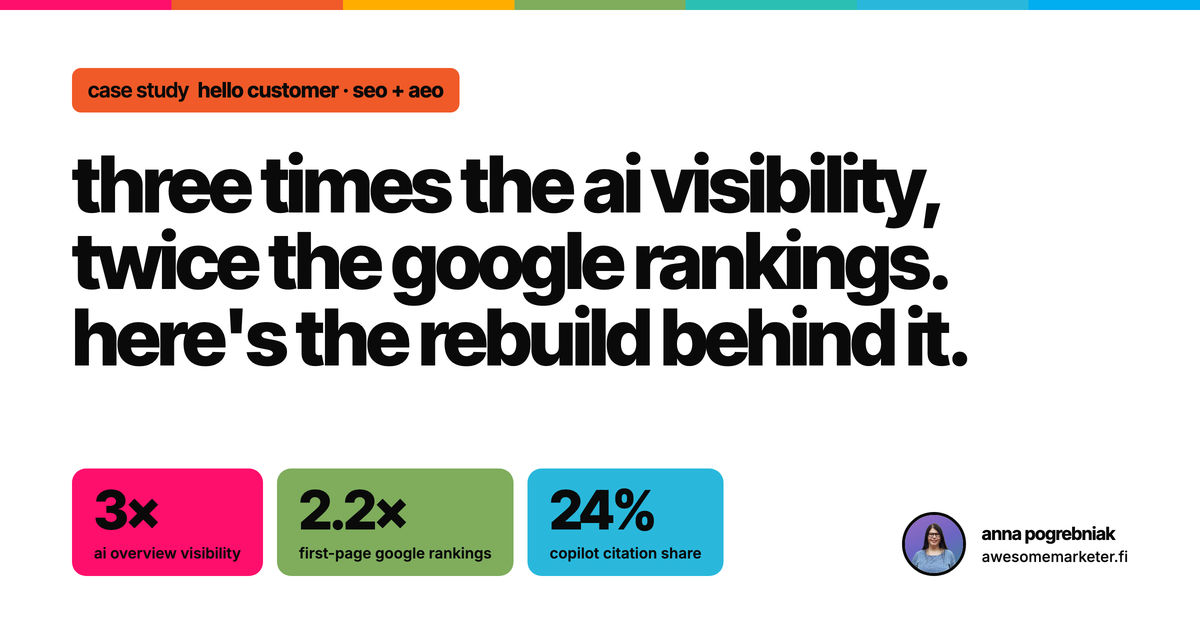
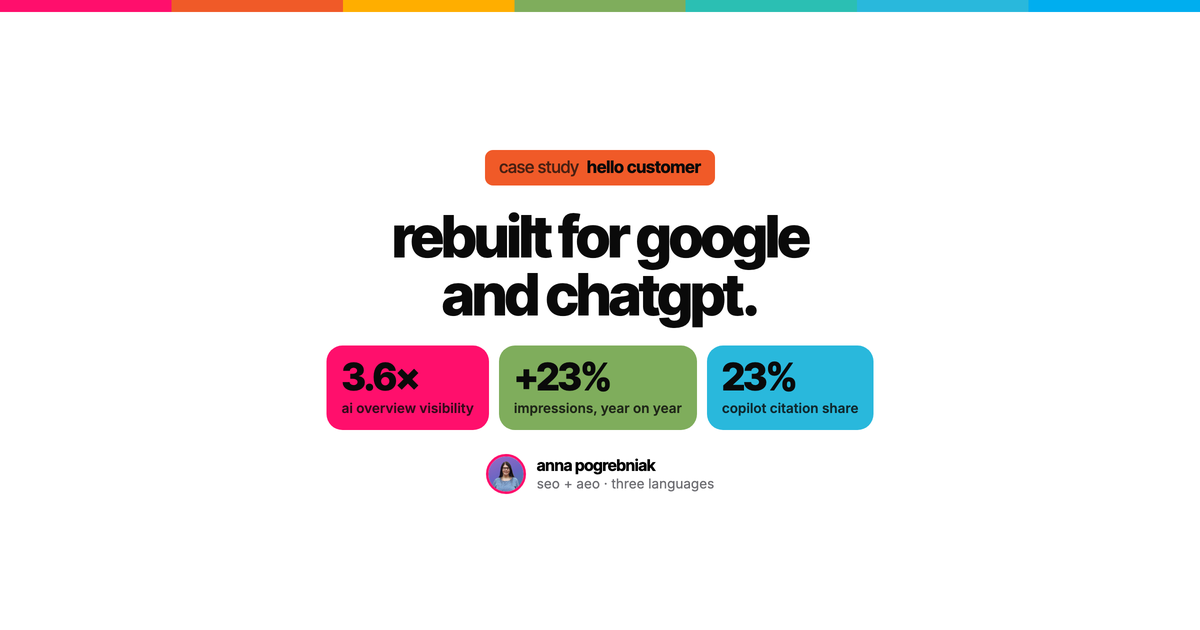
Square-safe share covers: content inside the centre crop Slack uses

diff --git a/case-studies/hello-customer/index.html b/case-studies/hello-customer/index.html
@@ -14,8 +14,8 @@
 <meta property="og:title" content="hello customer: a b2b saas website rebuilt seo and aeo first">
 <meta property="og:description" content="Repositioned as a voice of customer platform, rebuilt in three languages. 3.6x more AI Overview visibility, Google position from page 4 to page 2, 23% citation share in Bing Copilot.">
 <meta property="og:site_name" content="anna pogrebniak">
-<meta property="og:image" content="https://awesomemarketer.fi/case-studies/hello-customer/og.png">
-<meta property="og:image:secure_url" content="https://awesomemarketer.fi/case-studies/hello-customer/og.png">
+<meta property="og:image" content="https://awesomemarketer.fi/case-studies/hello-customer/og.png?v=2">
+<meta property="og:image:secure_url" content="https://awesomemarketer.fi/case-studies/hello-customer/og.png?v=2">
 <meta property="og:image:type" content="image/png">
 <meta property="og:image:width" content="1200">
 <meta property="og:image:height" content="630">
@@ -24,7 +24,7 @@
 <meta name="twitter:card" content="summary_large_image">
 <meta name="twitter:title" content="hello customer: seo + aeo case study · anna pogrebniak">
 <meta name="twitter:image:alt" content="hello customer: a b2b saas website rebuilt seo and aeo first">
-<meta name="twitter:image" content="https://awesomemarketer.fi/case-studies/hello-customer/og.png">
+<meta name="twitter:image" content="https://awesomemarketer.fi/case-studies/hello-customer/og.png?v=2">
 <meta name="robots" content="index, follow">
 <link rel="icon" href="/favicon.ico?v=2" sizes="any">
 <link rel="icon" type="image/png" sizes="32x32" href="/favicon-32x32.png?v=2">

diff --git a/index.html b/index.html
@@ -16,8 +16,8 @@
 <meta property="og:description" content="Fractional growth marketer for B2B SaaS. 11 years, 23 brands, €3M in ad spend managed. Growth, ads, and AEO.">
 <meta property="og:site_name" content="anna pogrebniak">
 <meta property="og:locale" content="en_US">
-<meta property="og:image" content="https://awesomemarketer.fi/thumbnail-portfolio.png">
-<meta property="og:image:secure_url" content="https://awesomemarketer.fi/thumbnail-portfolio.png">
+<meta property="og:image" content="https://awesomemarketer.fi/thumbnail-portfolio.png?v=2">
+<meta property="og:image:secure_url" content="https://awesomemarketer.fi/thumbnail-portfolio.png?v=2">
 <meta property="og:image:type" content="image/png">
 <meta property="og:image:width" content="1200">
 <meta property="og:image:height" content="630">
@@ -26,7 +26,7 @@
 <meta name="twitter:title" content="anna pogrebniak · fractional growth marketer · b2b saas">
 <meta name="twitter:description" content="Fractional growth marketer for B2B SaaS. 11 years, 23 brands, €3M in ad spend managed.">
 <meta name="twitter:image:alt" content="anna pogrebniak, fractional growth marketer for B2B SaaS">
-<meta name="twitter:image" content="https://awesomemarketer.fi/thumbnail-portfolio.png">
+<meta name="twitter:image" content="https://awesomemarketer.fi/thumbnail-portfolio.png?v=2">
 <meta name="robots" content="index, follow">
 <meta name="keywords" content="fractional growth marketer, b2b saas marketing, fractional cmo, aeo, answer engine optimisation, ai search visibility, paid ads, linkedin ads, google ads, meta ads, demand generation, belgium, ghent, europe">
 

diff --git a/case-studies/trustmary/index.html b/case-studies/trustmary/index.html
@@ -14,8 +14,8 @@
 <meta property="og:title" content="trustmary: launching a new product in finland with fractional ads">
 <meta property="og:description" content="Three paid paths to one sales meeting, tested against each other for a summer. 112 meetings at about 150 euro each, and the logic behind the budget.">
 <meta property="og:site_name" content="anna pogrebniak">
-<meta property="og:image" content="https://awesomemarketer.fi/case-studies/trustmary/og.png">
-<meta property="og:image:secure_url" content="https://awesomemarketer.fi/case-studies/trustmary/og.png">
+<meta property="og:image" content="https://awesomemarketer.fi/case-studies/trustmary/og.png?v=2">
+<meta property="og:image:secure_url" content="https://awesomemarketer.fi/case-studies/trustmary/og.png?v=2">
 <meta property="og:image:type" content="image/png">
 <meta property="og:image:width" content="1200">
 <meta property="og:image:height" content="630">
@@ -24,7 +24,7 @@
 <meta name="twitter:card" content="summary_large_image">
 <meta name="twitter:title" content="trustmary: fractional ads case study · anna pogrebniak">
 <meta name="twitter:image:alt" content="trustmary: launching a new product in finland with fractional ads">
-<meta name="twitter:image" content="https://awesomemarketer.fi/case-studies/trustmary/og.png">
+<meta name="twitter:image" content="https://awesomemarketer.fi/case-studies/trustmary/og.png?v=2">
 <meta name="robots" content="index, follow">
 <link rel="icon" href="/favicon.ico?v=2" sizes="any">
 <link rel="icon" type="image/png" sizes="32x32" href="/favicon-32x32.png?v=2">

diff --git a/case-studies/index.html b/case-studies/index.html
@@ -14,8 +14,8 @@
 <meta property="og:title" content="case studies · anna pogrebniak">
 <meta property="og:description" content="Two case studies with the data behind them: SEO and AEO for a B2B SaaS website, and fractional ads for a product launch in Finland.">
 <meta property="og:site_name" content="anna pogrebniak">
-<meta property="og:image" content="https://awesomemarketer.fi/thumbnail-portfolio.png">
-<meta property="og:image:secure_url" content="https://awesomemarketer.fi/thumbnail-portfolio.png">
+<meta property="og:image" content="https://awesomemarketer.fi/thumbnail-portfolio.png?v=2">
+<meta property="og:image:secure_url" content="https://awesomemarketer.fi/thumbnail-portfolio.png?v=2">
 <meta property="og:image:type" content="image/png">
 <meta property="og:image:width" content="1200">
 <meta property="og:image:height" content="630">
@@ -23,7 +23,7 @@
 <meta name="twitter:title" content="case studies · anna pogrebniak">
 <meta name="twitter:description" content="Two case studies with the data behind them: SEO and AEO for a B2B SaaS website, and fractional ads for a product launch in Finland.">
 <meta name="twitter:image:alt" content="case studies by anna pogrebniak">
-<meta name="twitter:image" content="https://awesomemarketer.fi/thumbnail-portfolio.png">
+<meta name="twitter:image" content="https://awesomemarketer.fi/thumbnail-portfolio.png?v=2">
 <meta name="twitter:card" content="summary_large_image">
 <meta name="robots" content="index, follow">
 <link rel="icon" href="/favicon.ico?v=2" sizes="any">

diff --git a/about/index.html b/about/index.html
@@ -14,8 +14,8 @@
 <meta property="og:title" content="about anna pogrebniak · fractional growth marketer">
 <meta property="og:description" content="Who Anna Pogrebniak is, how she works, and what she values. Fractional growth marketer for B2B SaaS, based in Ghent, Belgium.">
 <meta property="og:site_name" content="anna pogrebniak">
-<meta property="og:image" content="https://awesomemarketer.fi/thumbnail-portfolio.png">
-<meta property="og:image:secure_url" content="https://awesomemarketer.fi/thumbnail-portfolio.png">
+<meta property="og:image" content="https://awesomemarketer.fi/thumbnail-portfolio.png?v=2">
+<meta property="og:image:secure_url" content="https://awesomemarketer.fi/thumbnail-portfolio.png?v=2">
 <meta property="og:image:type" content="image/png">
 <meta property="og:image:width" content="1200">
 <meta property="og:image:height" content="630">
@@ -24,7 +24,7 @@
 <meta name="twitter:card" content="summary_large_image">
 <meta name="twitter:title" content="about anna pogrebniak · fractional growth marketer">
 <meta name="twitter:image:alt" content="about anna pogrebniak, fractional growth marketer">
-<meta name="twitter:image" content="https://awesomemarketer.fi/thumbnail-portfolio.png">
+<meta name="twitter:image" content="https://awesomemarketer.fi/thumbnail-portfolio.png?v=2">
 <meta name="robots" content="index, follow">
 <link rel="icon" href="/favicon.ico?v=2" sizes="any">
 <link rel="icon" type="image/png" sizes="32x32" href="/favicon-32x32.png?v=2">

diff --git a/for/pitchme/index.html b/for/pitchme/index.html
@@ -15,10 +15,10 @@
 <meta name="twitter:title" content="linkedin thought leadership plan for pitchme · anna pogrebniak">
 <meta name="twitter:description" content="Your people, in front of the right recruitment firms, every week. Awareness, then product awareness, then pipeline your sales team can work.">
 <meta name="twitter:image:alt" content="linkedin thought leadership plan for pitchme">
-<meta name="twitter:image" content="https://awesomemarketer.fi/thumbnail-portfolio.png">
+<meta name="twitter:image" content="https://awesomemarketer.fi/thumbnail-portfolio.png?v=2">
 <meta name="twitter:card" content="summary_large_image">
-<meta property="og:image" content="https://awesomemarketer.fi/thumbnail-portfolio.png">
-<meta property="og:image:secure_url" content="https://awesomemarketer.fi/thumbnail-portfolio.png">
+<meta property="og:image" content="https://awesomemarketer.fi/thumbnail-portfolio.png?v=2">
+<meta property="og:image:secure_url" content="https://awesomemarketer.fi/thumbnail-portfolio.png?v=2">
 <meta property="og:image:type" content="image/png">
 <meta property="og:image:width" content="1200">
 <meta property="og:image:height" content="630">

diff --git a/for/teamspective/index.html b/for/teamspective/index.html
@@ -15,10 +15,10 @@
 <meta name="twitter:title" content="seo + aeo plan for teamspective · anna pogrebniak">
 <meta name="twitter:description" content="Six months, month by month: audit first, then the pages HR buyers use to choose a vendor, measured on qualified leads.">
 <meta name="twitter:image:alt" content="seo + aeo plan for teamspective">
-<meta name="twitter:image" content="https://awesomemarketer.fi/thumbnail-portfolio.png">
+<meta name="twitter:image" content="https://awesomemarketer.fi/thumbnail-portfolio.png?v=2">
 <meta name="twitter:card" content="summary_large_image">
-<meta property="og:image" content="https://awesomemarketer.fi/thumbnail-portfolio.png">
-<meta property="og:image:secure_url" content="https://awesomemarketer.fi/thumbnail-portfolio.png">
+<meta property="og:image" content="https://awesomemarketer.fi/thumbnail-portfolio.png?v=2">
+<meta property="og:image:secure_url" content="https://awesomemarketer.fi/thumbnail-portfolio.png?v=2">
 <meta property="og:image:type" content="image/png">
 <meta property="og:image:width" content="1200">
 <meta property="og:image:height" content="630">
